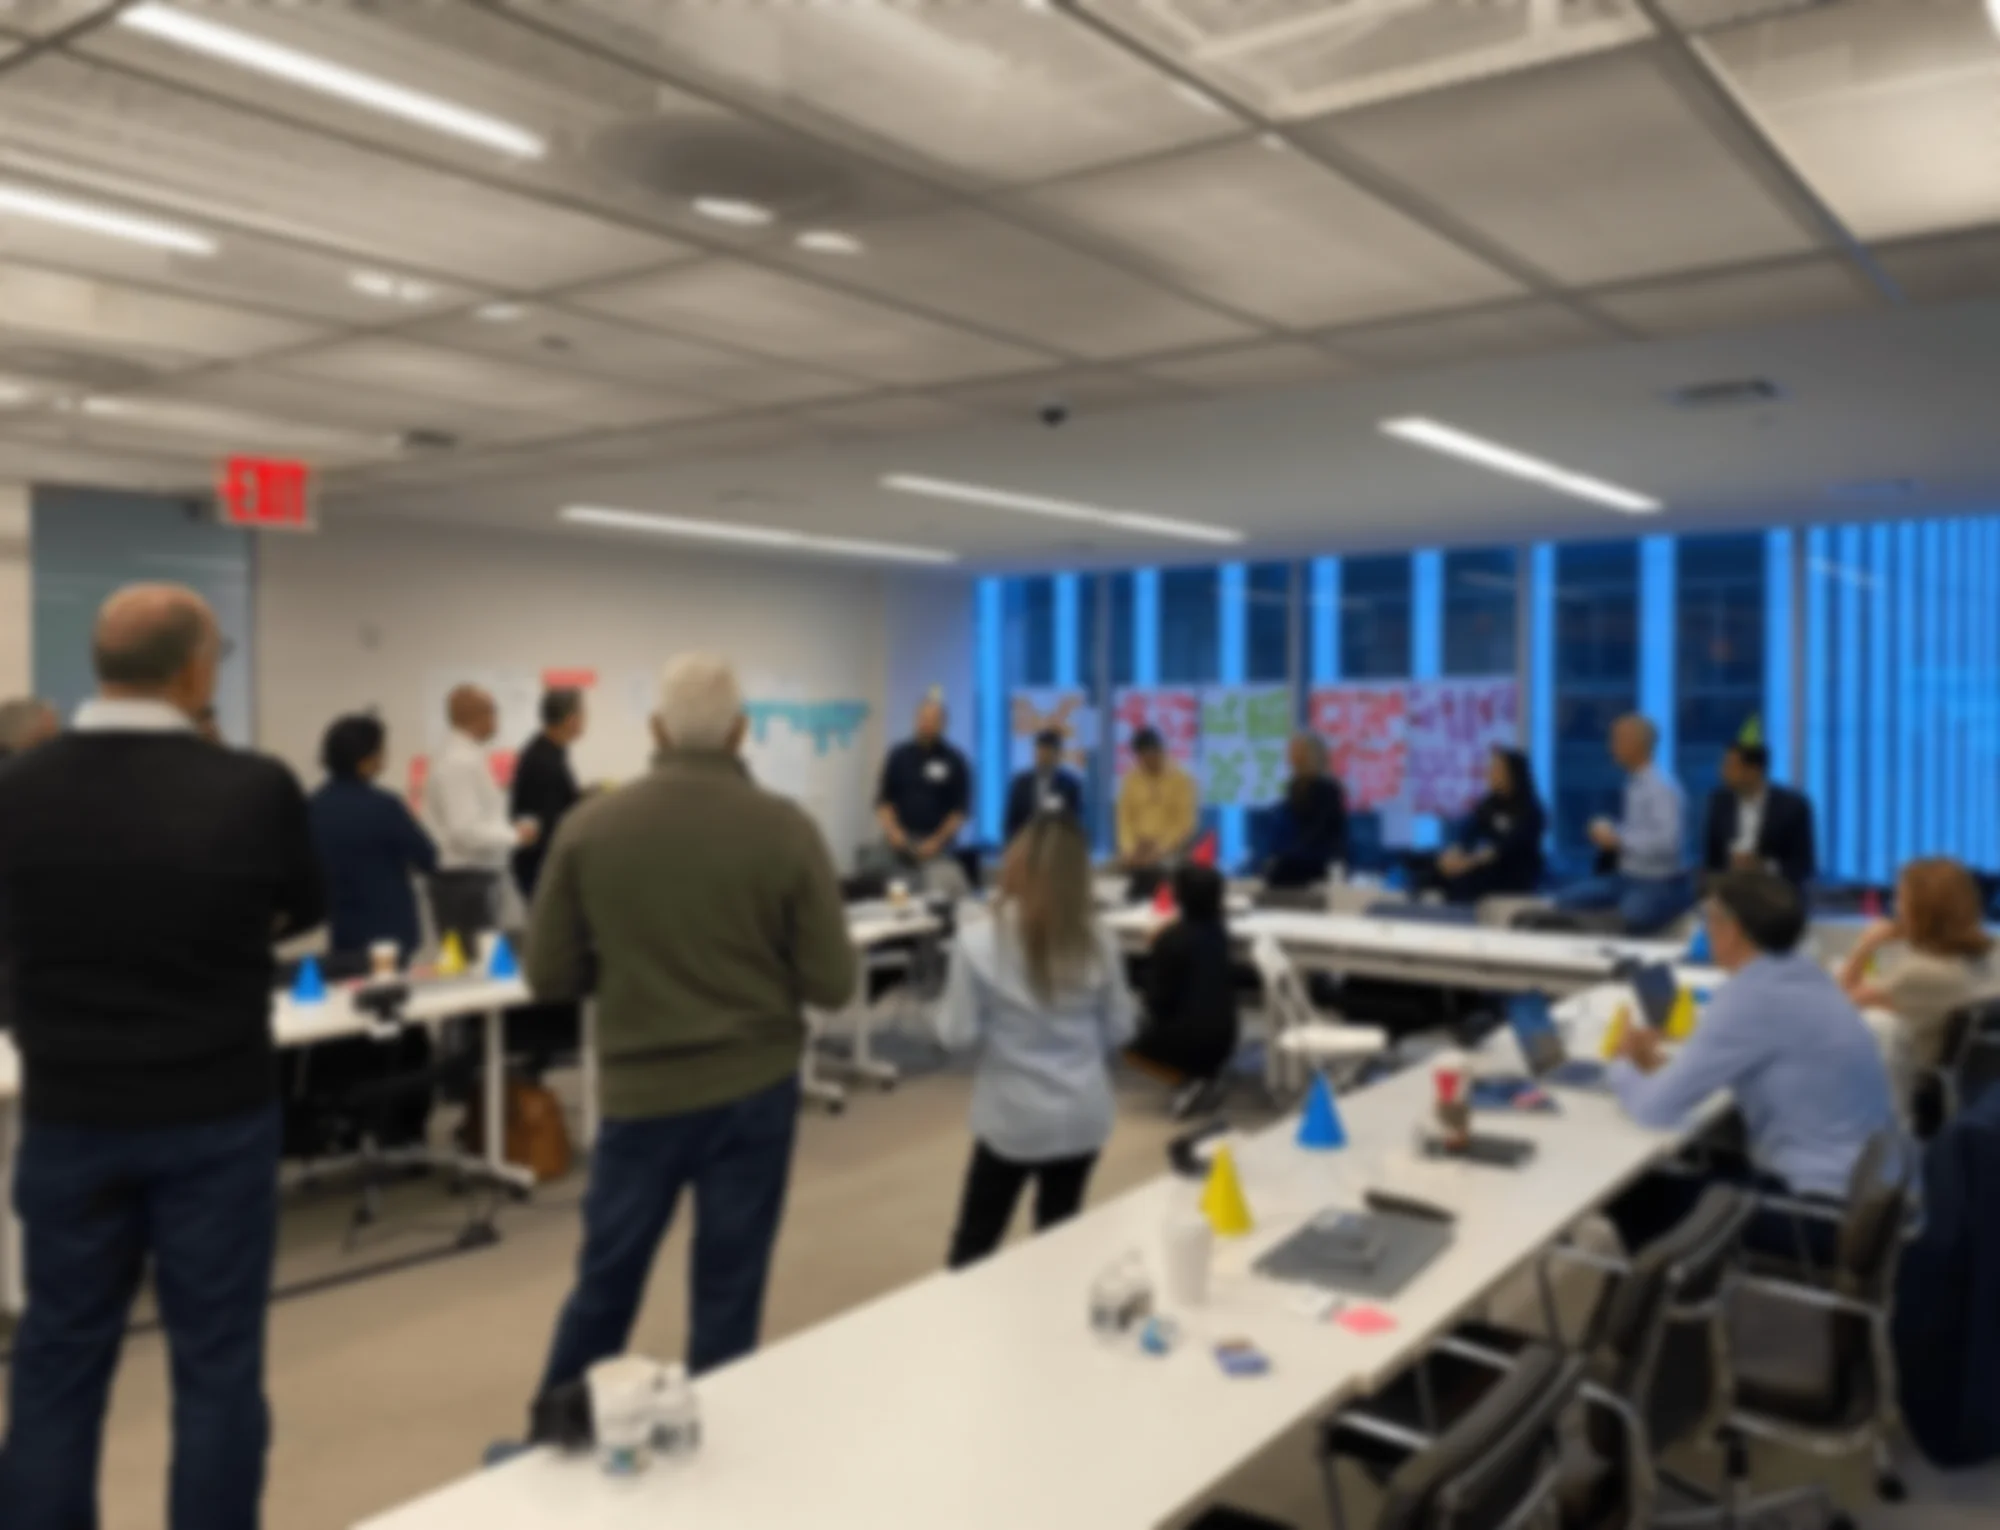
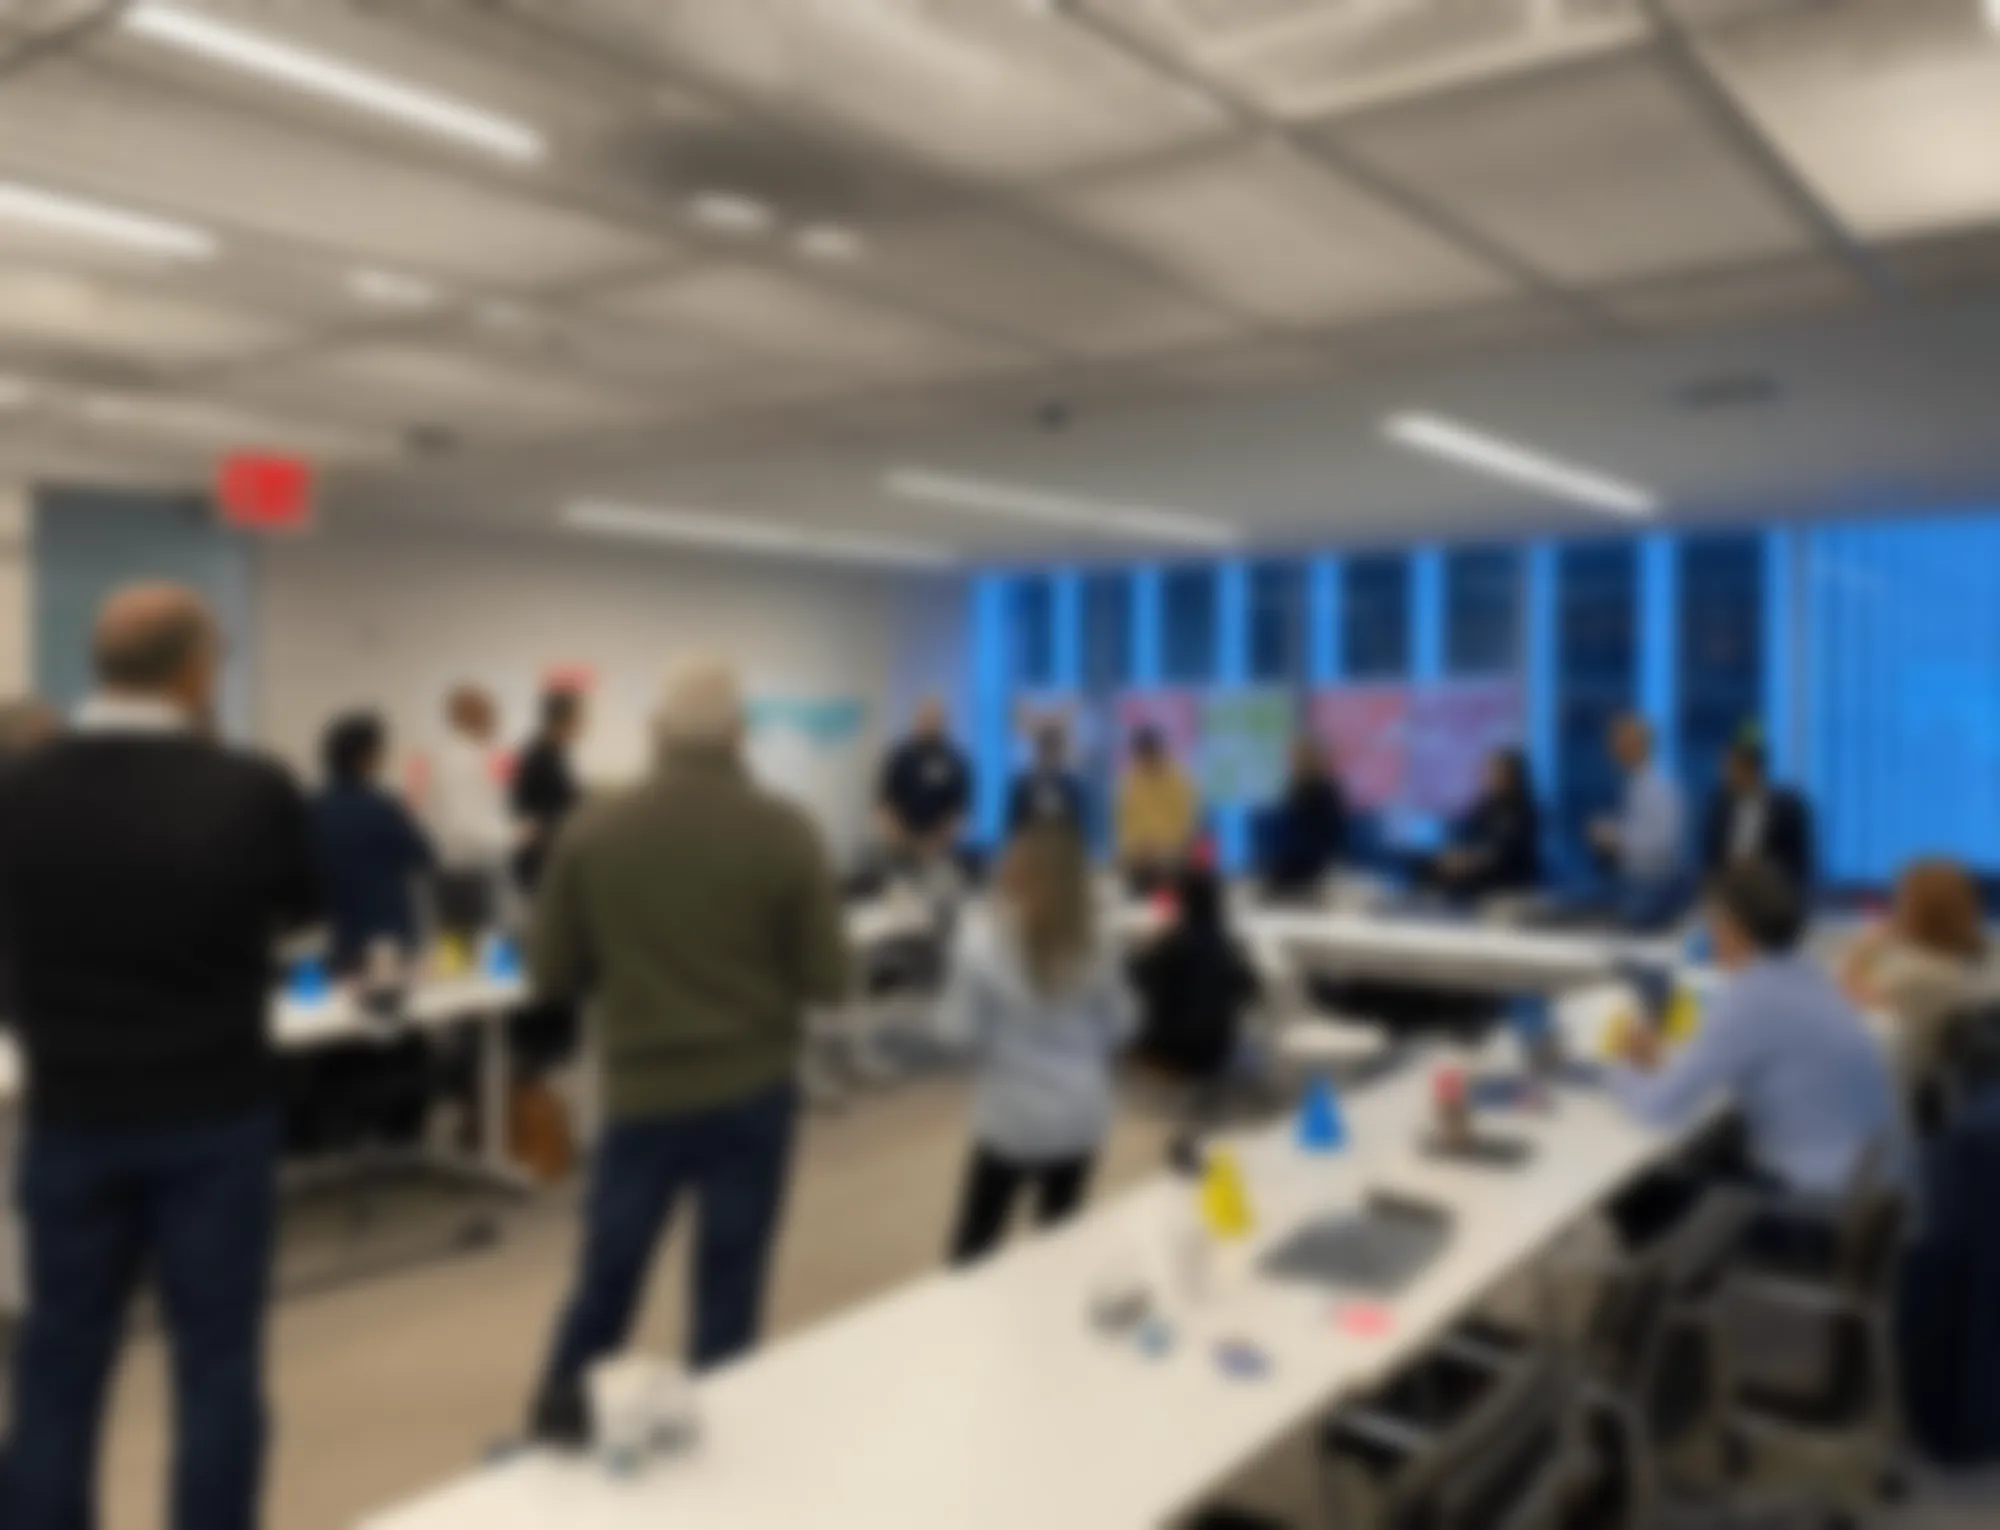
Facilitation: blur Wipro photos with NDA note; rename HVAC board files
Claude-Session: https://claude.ai/code/session_01JdiqnAgj9LWHKqoaC1ZKdY

diff --git a/src/content/work/facilitation.md b/src/content/work/facilitation.md
@@ -46,7 +46,7 @@ The 2025 CIID Global Design Workshop for Busan Design Council participants.
 
 <p class="ws-meta"><span>3 days</span> · <span>60+ people</span> · <span>Co-designed and co-facilitated</span></p>
 
-A design thinking workshop that turned C-suite priorities into product direction. Details are under NDA.
+A design thinking workshop that turned C-suite priorities into product direction. Details are under NDA, so the workshop photos are blurred.
 
 <figure class="pair">
   <img src="/work/facilitation-assets/wipro-room.webp" alt="A large room of workshop participants standing between tables and walls of sticky notes"/>
@@ -70,6 +70,6 @@ A brainstorm for the Bureau of Sanctioned Sketching with classmates. Before any 
 I supported a session that moved from pain points to personas to a prioritized opportunity map for the next phase of work. Details are under NDA, so the boards are blurred.
 
 <figure class="pair">
-  <img src="/work/facilitation-assets/trane-board-a.webp" alt="A remote workshop board with an icebreaker, agenda, pain points, and three personas"/>
-  <img src="/work/facilitation-assets/trane-board-b.webp" alt="A remote workshop board with How Might We prompts, pain points, opportunity areas, and concept generation"/>
+  <img src="/work/facilitation-assets/hvac-designit-board-a.webp" alt="A remote workshop board with an icebreaker, agenda, pain points, and three personas"/>
+  <img src="/work/facilitation-assets/hvac-designit-board-b.webp" alt="A remote workshop board with How Might We prompts, pain points, opportunity areas, and concept generation"/>
 </figure>
